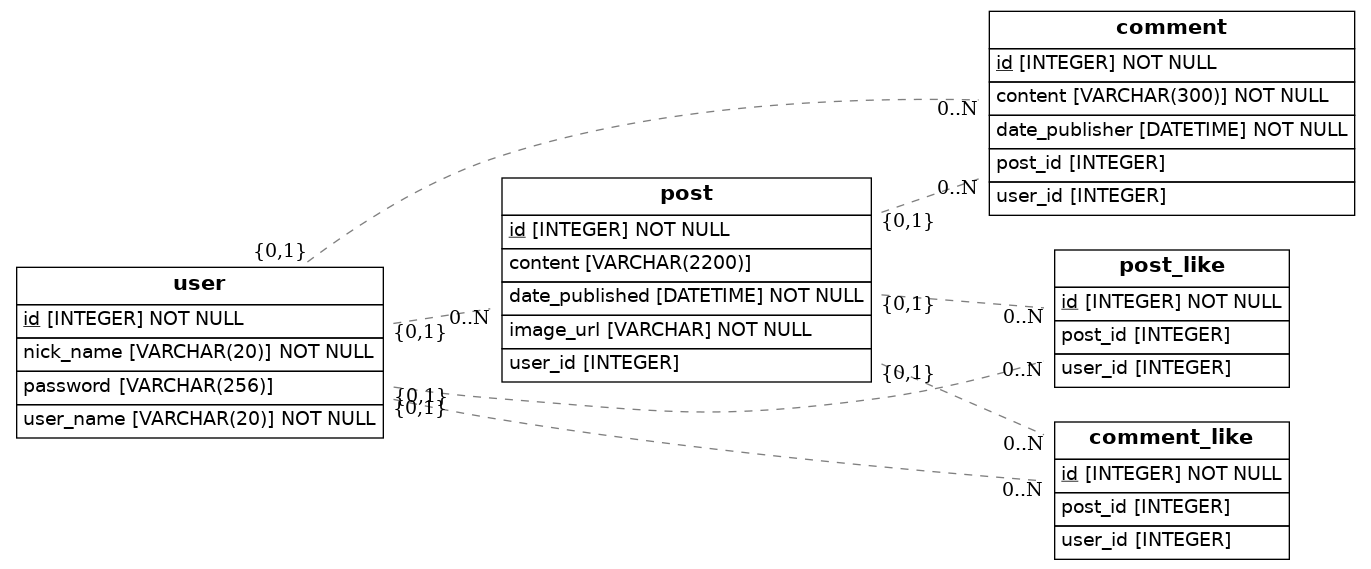
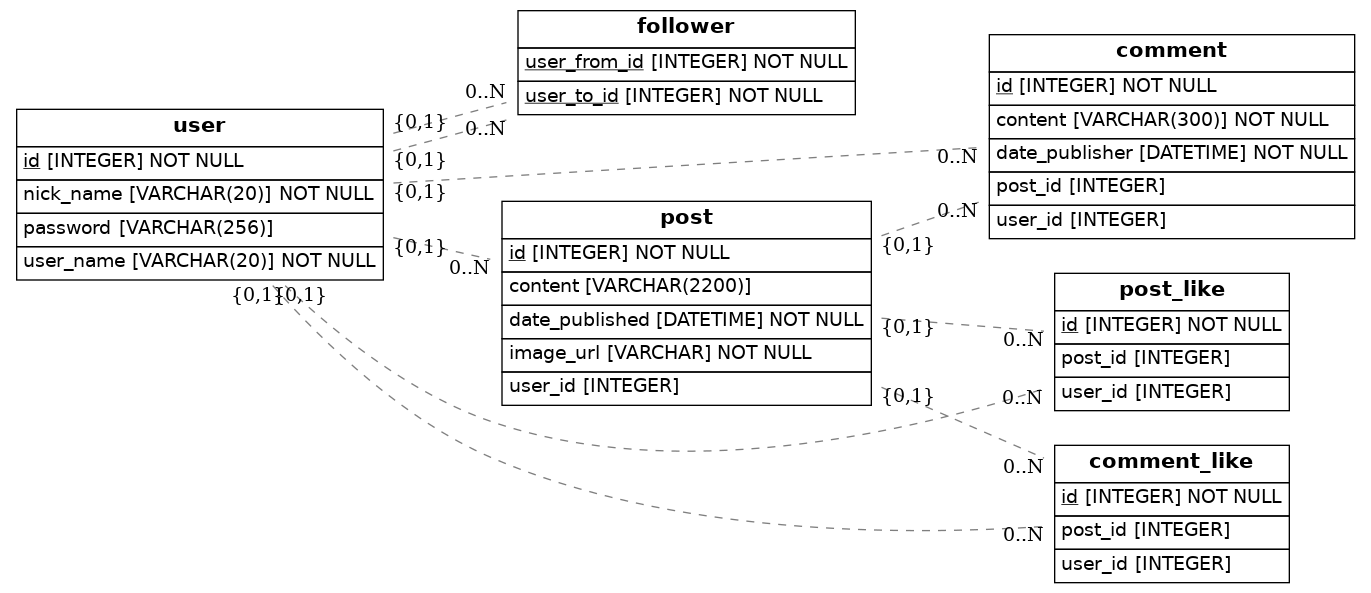
Added followers table

diff --git a/src/models.py b/src/models.py
@@ -6,16 +6,20 @@ from sqlalchemy.orm import relationship
 from sqlalchemy import create_engine
 from eralchemy2 import render_er
 
+
 Base = declarative_base()
 
-class User(Base):
+
+class User (Base):
     __tablename__ = 'user'
 
+    #columns
     id = Column(Integer, primary_key=True)
     password = Column(String(256))
     user_name = Column (String(20), nullable=False)
     nick_name = Column (String(20), nullable=False)
 
+    #relationships
     post= relationship ('Post', backref='user')
     comments = relationship ('Comment', backref='user')
     comment_likes = relationship ('CommentLike', backref='user')
@@ -25,37 +29,59 @@ class User(Base):
        return {}
 
 
-class Post(Base):
+class Follower (Base):
+    __tablename__ = 'follower'
+
+    #columns
+    user_from_id = Column(Integer, ForeignKey('user.id'), primary_key=True)
+    user_to_id = Column(Integer, ForeignKey('user.id'), primary_key=True)
+
+    #relationships
+    user = relationship('User', backref='user')
+
+
+class Post (Base):
     __tablename__ = 'post'
 
+    #columns
     id = Column(Integer, primary_key=True)
     user_id = Column(Integer, ForeignKey('user.id'))
     image_url = Column (String(), nullable=False)
     date_published = Column (DateTime(), nullable=False)
     content = Column (String (2200))
 
+    #relationships
     likes = relationship ('PostLike', backref='post')
     comments = relationship ('Comment', backref='post')
+
 
 class Comment (Base):
     __tablename__ = 'comment'
 
+    #columns
     id = Column(Integer, primary_key=True)
     post_id = Column (Integer, ForeignKey ('post.id'))
     user_id = Column (Integer, ForeignKey ('user.id'))
     content = Column (String (300), nullable=False)
     date_publisher = Column (DateTime(), nullable=False)
 
+    #relationships
     likes = relationship ('CommentLike', backref='comment')
+
 
 class PostLike (Base):
     __tablename__ = 'post_like'
+
+    #columns
     id = Column(Integer, primary_key=True)
     post_id = Column (Integer, ForeignKey ('post.id'))
     user_id = Column (Integer, ForeignKey ('user.id'))
 
+
 class CommentLike (Base):
     __tablename__ = 'comment_like'
+
+    #columns
     id = Column(Integer, primary_key=True)
     post_id = Column (Integer, ForeignKey ('post.id'))
     user_id = Column (Integer, ForeignKey ('user.id'))
